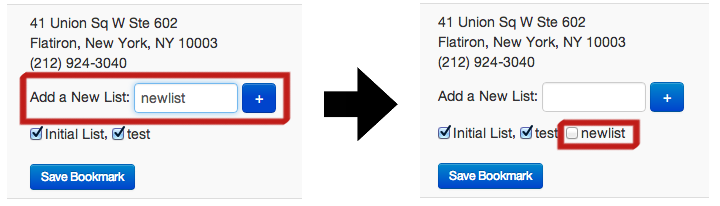
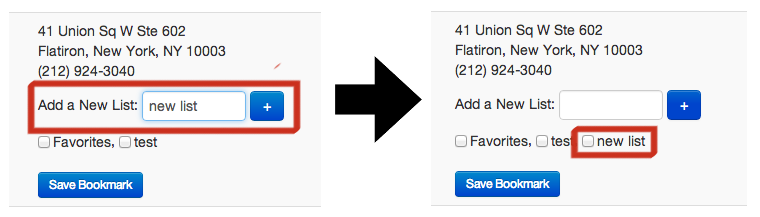
Updated help page and added new images.

diff --git a/views/help.html b/views/help.html
@@ -59,13 +59,7 @@
 
           While browsing through search results, there will be a button below the information for each item to "Bookmark" it under a single or multiple lists. Clicking it will open up a checkbox interface listing the names of all the lists you have currently. After checking the lists you wish to add the item to, clicking "Save Bookmark" will add those items to each list checked. The original "Bookmark" button will then become an "Edit Bookmark" button that will bring up an interface to do so.
 
-          <br><br>
-          <div align="center">
-            <img style="border:5px solid black" src="img/bookmark.png" height="300px" width="1100px">
-          </div>
-          <br>
-
-          You can also move around items that you have already placed in lists using the bookmarks interface.
+          You can also move around items that you have already placed in lists using the bookmarks interface. Displayed items will have an bookmark editing interface similar to the search results page.
 
           <br><br><div align="right"><a href="" ng-click="scrollToTop()">Back To Top</a></div>
         </p>
@@ -73,7 +67,12 @@
         <p id="q4">
            <h3>How do I create more lists for me to add venues to?</h3>
 
-          You can create new lists using the bookmarks interface.
+          <div align="center">
+            <img style="border:5px solid black" src="img/newlist2.png" width="600">
+          </div>
+          <br>
+
+          You can create new lists using the panel on the top right of the bookmarks page. Simply type the name of a list you want to create and click "Add List" and the newly added list will appear below.
 
           <br><br>
           <div align="center">
@@ -81,7 +80,7 @@
           </div>
           <br>
 
-          You can also create new lists directly from the search results page when bookmarking an item.
+          You can also create new lists directly from the search results page when bookmarking an item. When bookmarking an item, you may create a new list to add the item to.
 
           <br><br><div align="right"><a href="" ng-click="scrollToTop()">Back To Top</a></div>
         </p>
@@ -89,7 +88,12 @@
         <p id="q5">
            <h3>How do I delete a list that I no longer want?</h3>
 
-          You can delete lists using the bookmarks interface.
+          <div align="center">
+            <img style="border:5px solid black" src="img/listdelete.png" width="240">
+          </div>
+          <br>
+
+          Lists can be deleted from the main Bookmarks page by clicking on the "X" icons next to the corresponding list you wish to delete. However, you may not delete the Favorites list, which is a list we provide and suggest you maintain.
 
           <br><br><div align="right"><a href="" ng-click="scrollToTop()">Back To Top</a></div>
         </p>
@@ -97,7 +101,14 @@
         <p id="q6">
            <h3>How can I navigate through my lists?</h3>
 
-          In the navigation panel at the top of each page, you can input a keyword to characterize the type of venue you are searching for in the first box and the general location you would like to search around in the second. Hitting search will bring you to the search results page and display a list of businesses for you to browse and select for bookmarking.
+          <div align="center">
+            <img style="border:5px solid black" src="img/listinterface.png" width="800">
+          </div>
+          <br>
+
+          The Bookmarks link on the navigation bar will bring you to the main YelpLists interface where you will be able to view and edit the bookmarks you have made. Initially no items will be displayed because no lists have been selected for display on the panel to the right. By selecting the checkbox corresponding to the list you wish to display, the frame to the left will populate with the venues that you have placed on that list. You may either select lists singly or select multiple lists at once to display a combined list of venues spanning all selected lists. You may also sort the displayed items by either highest rating or highest number of reviews.
+          <br><br>
+          If you see an item that you no longer want on a particular list, you will find an "Edit Bookmark" button for each item that you may use to copy or move the item to a new list or remove the item from all lists, similar to the interface you will find on the search results page. You may also create a new list using the right panel to move or copy your bookmarked venues onto.
 
           <br><br><div align="right"><a href="" ng-click="scrollToTop()">Back To Top</a></div>
         </p>
